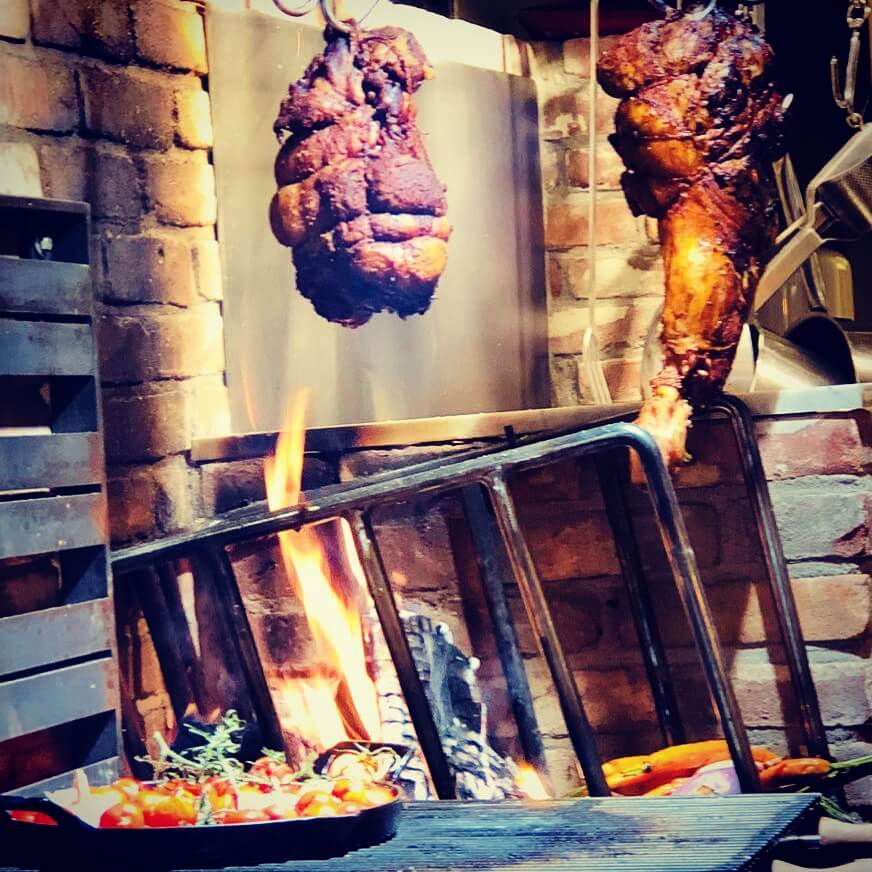
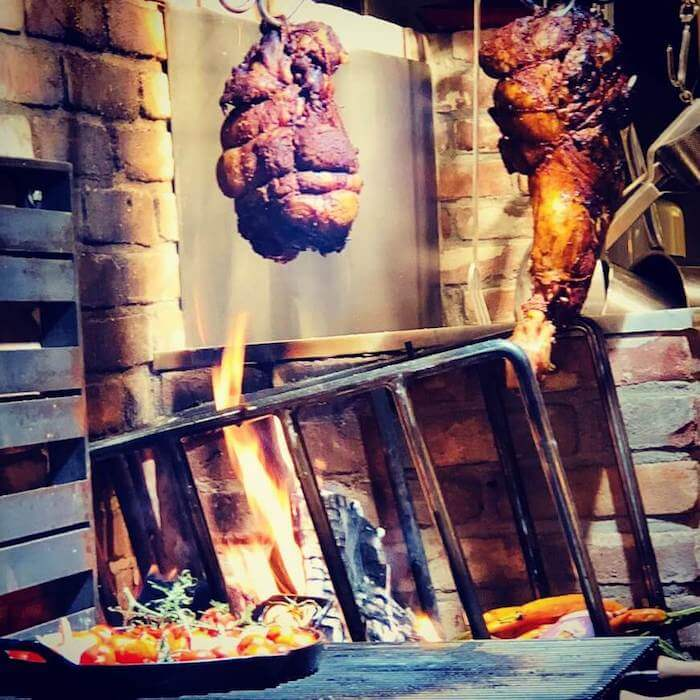
fix: Optimized images; Removed unused media queries

diff --git a/menu/index.html b/menu/index.html
@@ -105,9 +105,10 @@
 
     main {
       padding: 15px;
-      margin: 55px 0 0;
+      margin: 55px auto 0;
       text-align: center;
       font-size: 0;
+      max-width: 768px;
     }
     figure {
       position: relative;
@@ -160,18 +161,17 @@
       font-size: 1em;
     }
     
-    @media only screen and (min-device-width: 480px) {}
     @media only screen and (min-device-width: 768px) {
       section {
         display: inline-block;
         width: 350px;
         vertical-align: top;
       }
-      section + section {
+      section:nth-of-type(2n) {
         margin-left: 38px;
       }
     }
-    @media only screen and (min-device-width: 1024px) {}
+
     @keyframes colorchange {
       0% {color: #ff8759;}
       33% {color: #e21067;}

diff --git a/index.html b/index.html
@@ -105,9 +105,10 @@
 
     main {
       padding: 15px;
-      margin: 55px 0 0;
+      margin: 55px auto 0;
       text-align: center;
       font-size: 0;
+      max-width: 768px;
     }
     figure {
       position: relative;
@@ -201,11 +202,14 @@
       section:nth-of-type(2n) {
         margin-left: 38px;
       }
+      section:nth-of-type(2n+1) {
+
+      }
       .logo {
         margin-top: 45px;
       }
     }
-    @media only screen and (min-device-width: 1024px) {}
+
     @keyframes colorchange {
       0% {color: #ff8759;}
       33% {color: #e21067;}
